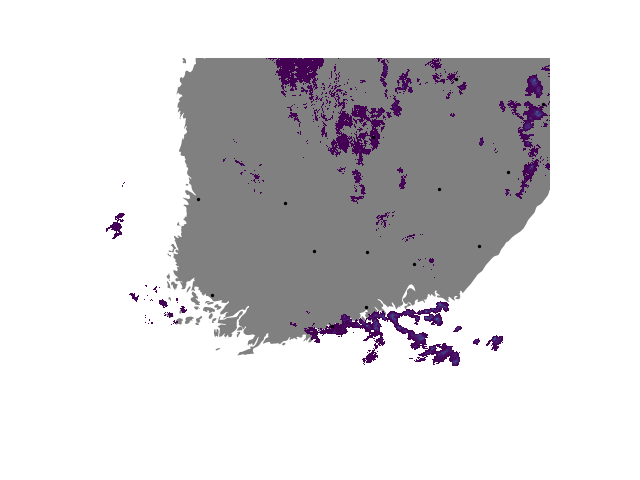
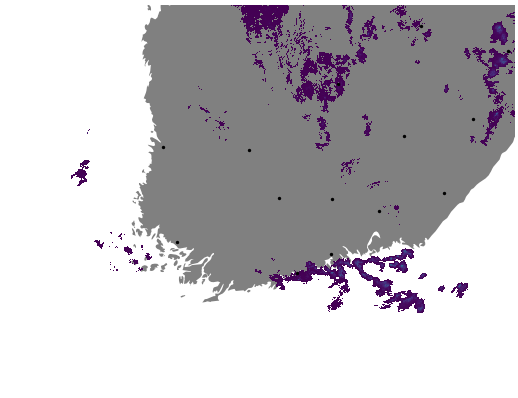
Remove whitespace from generated images

diff --git a/fmio/visualization.py b/fmio/visualization.py
@@ -22,10 +22,10 @@ def plot_save_rr(rr, transform, border, rr_crs, savepath):
     return ax
 
 
-def tif_to_png(inputpath, outputpath, **kwargs):
+def tif_to_png(inputpath, outputpath, bbox_inches='tight', pad_inches=0, **kwargs):
     border = basemap.border()
     cities = basemap.cities()
     ax = raster.plot_radar_file(inputpath, border=border, cities=cities, **kwargs)
     fig = ax.get_figure()
-    fig.savefig(outputpath)
+    fig.savefig(outputpath, bbox_inches=bbox_inches, pad_inches=pad_inches)
     fig.clf()
